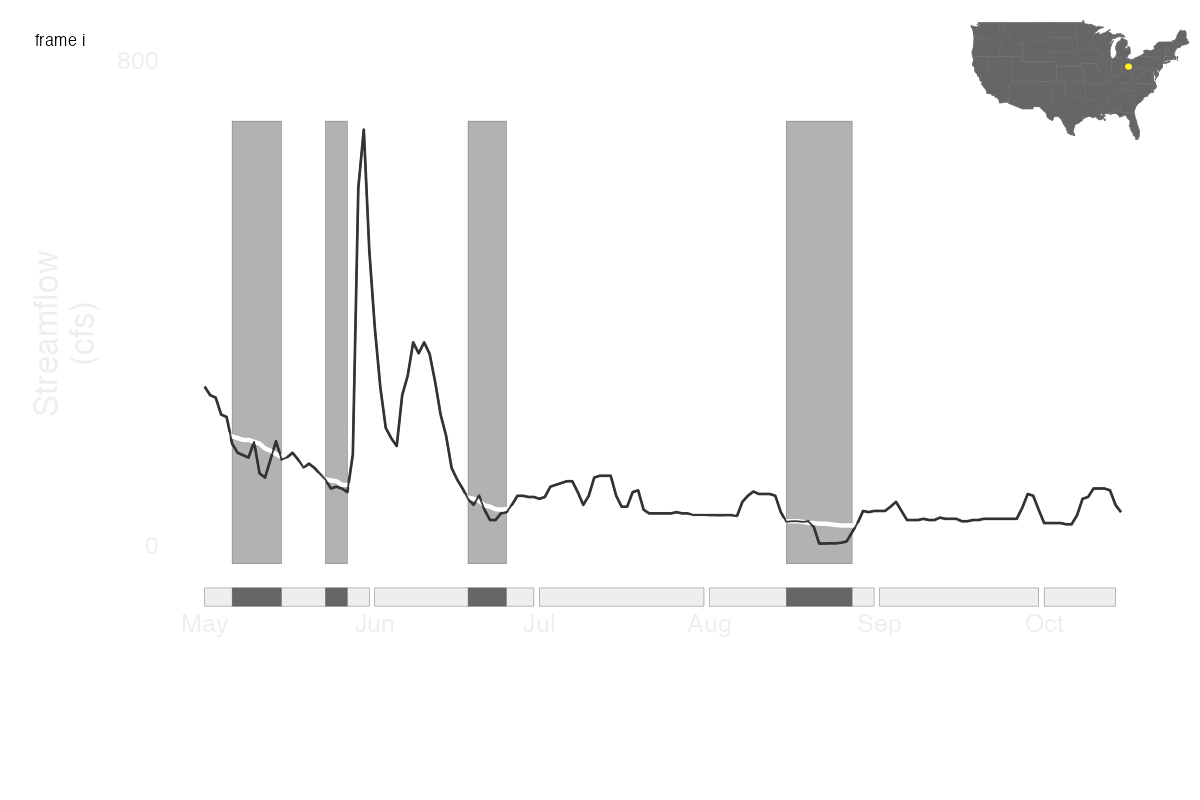
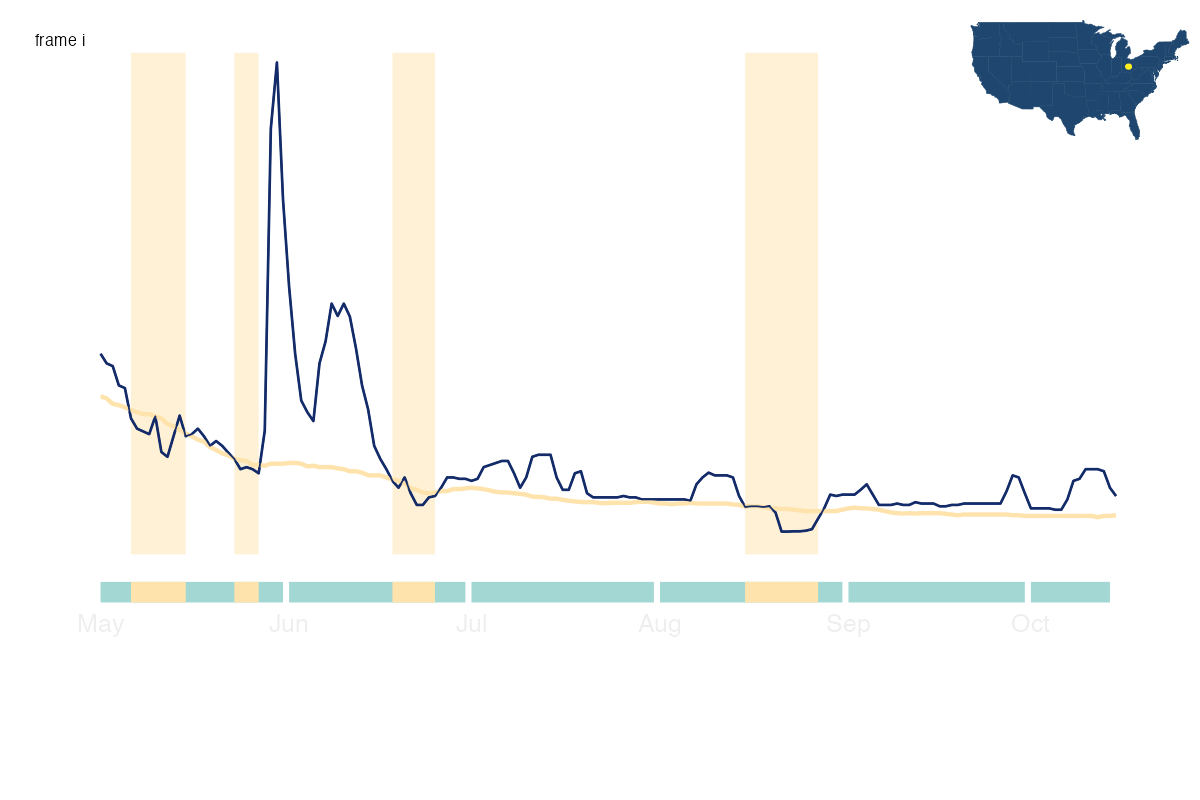
updated colorscheme with fade

Changed region(s): [[0.0617, 0.0625, 0.925, 0.7812], [0.8017, 0.0, 1.0, 0.1875]]

diff --git a/src/components/DroughtThresholds.vue b/src/components/DroughtThresholds.vue
@@ -151,7 +151,7 @@ img {
 .text-container {
   z-index: 500;
   border-radius: 25px;
-  background: #EC8176;
+  background: #FFE3AD;
   max-width: 400px;
   p{
     padding: 25px;
@@ -177,7 +177,7 @@ img {
   height: auto;
   margin-top: 10%;
   margin-left: 10%;
-  background-color: #999999;
+  background-color: #5BA5B3;
   max-height: 700px;
     max-width: 1000px;
     opacity: 0;
